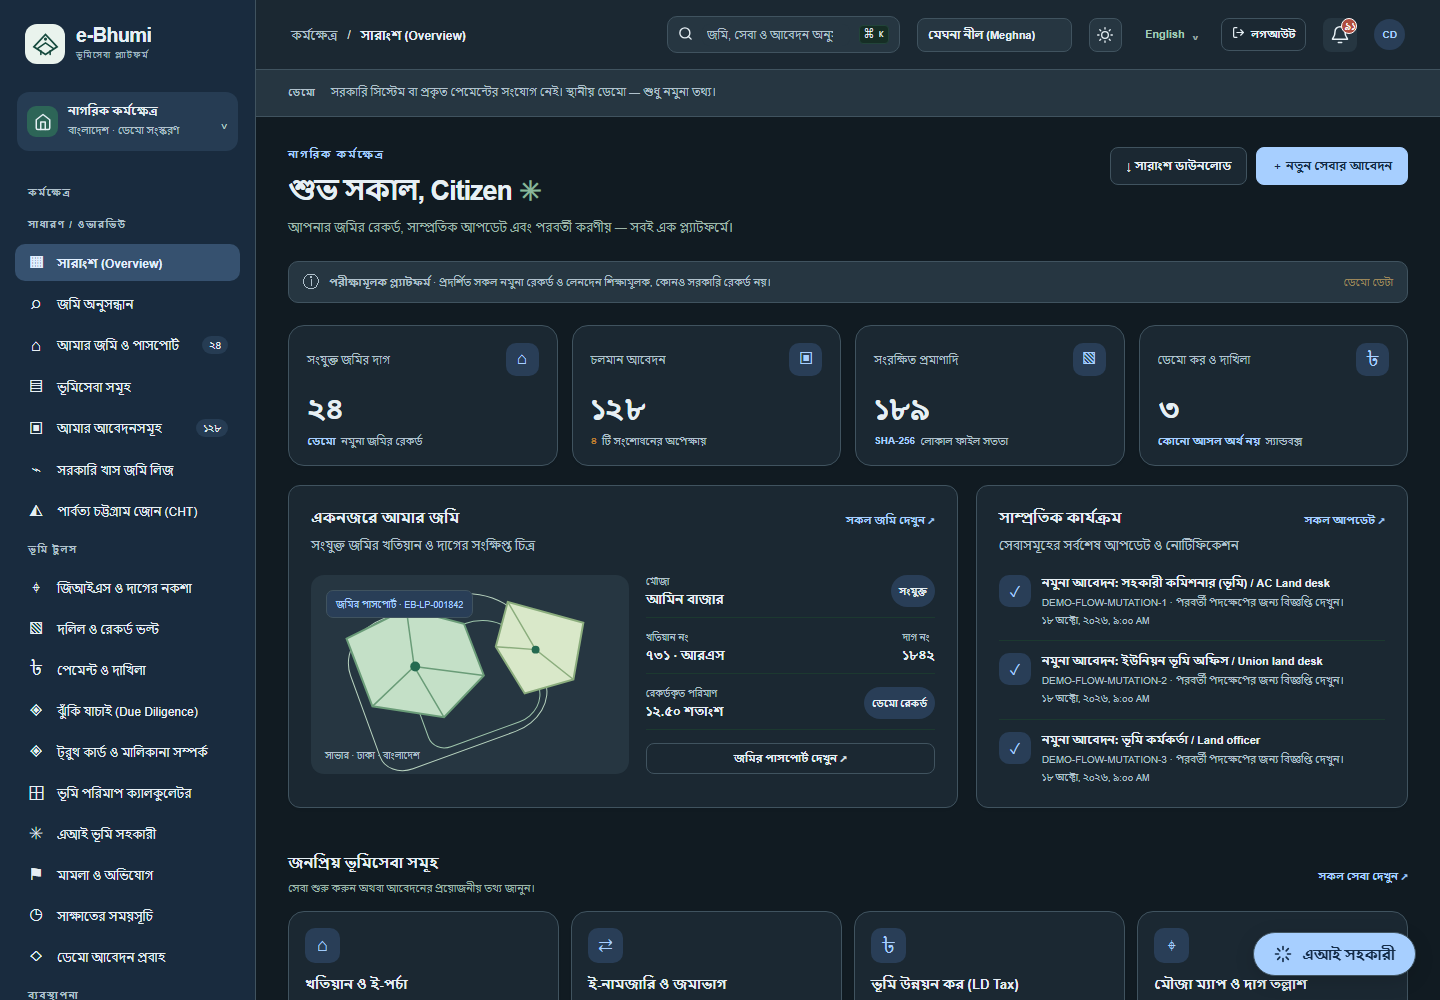
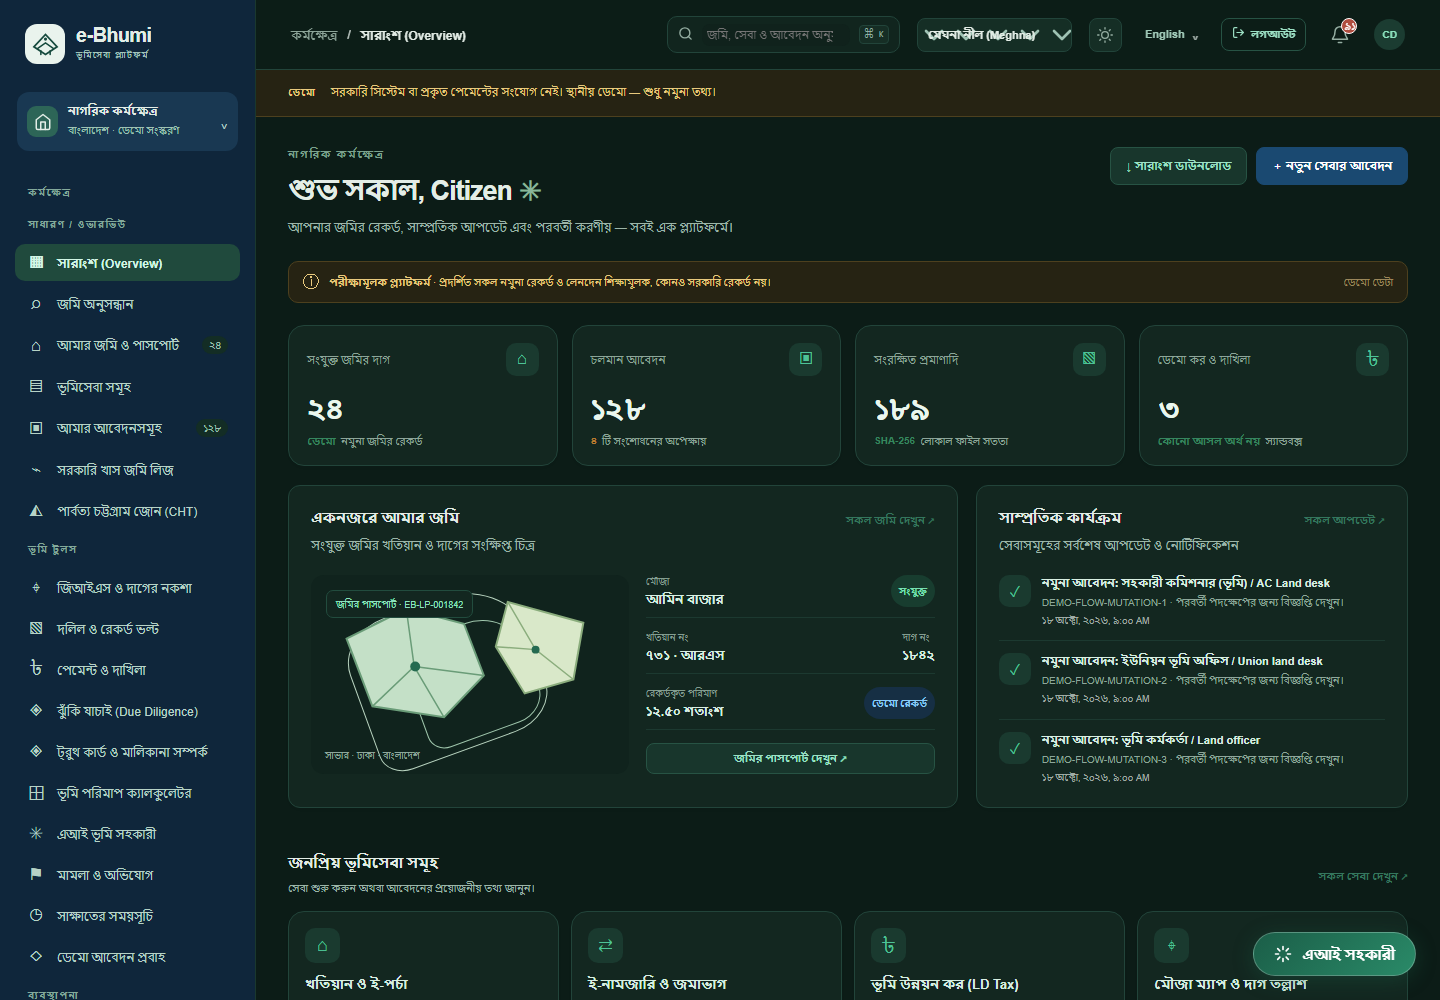
Restore original colour palettes while retaining role demonstrations

diff --git a/ebhumi-platform/themes.css b/ebhumi-platform/themes.css
@@ -1,56 +1,4 @@
-/* Existing layout and fonts are preserved. Alternate day palettes use light sidebars. */
-:root{--canvas:#f4f7f3;--surface:#fff;--surface-soft:#edf3ee;--ink:#173d33;--muted:#526b60;--accent:#1d5b47;--accent-hover:#164b3a;--accent-soft:#e4f1e9;--button-ink:#fff;--border:#d3e0d8;--side:#143f34;--side-ink:#edf7f1;--side-muted:#bdd4c8;--side-soft:#214e41;--side-active:#e8f2ec;--side-active-ink:#164b3f}
-:root[data-color-variant="meghna"]{--canvas:#f4f8fd;--surface:#fff;--surface-soft:#eaf1f9;--ink:#213d58;--muted:#536b82;--accent:#265f96;--accent-hover:#1c4c7c;--accent-soft:#e4effb;--border:#cbdbea;--side:#e8f1fb;--side-ink:#213d58;--side-muted:#4d6781;--side-soft:#dae8f7;--side-active:#c9def4;--side-active-ink:#173f6a}
-:root[data-color-variant="sundarban"]{--canvas:#fcf8f3;--surface:#fffdfa;--surface-soft:#f5ecdf;--ink:#503b2c;--muted:#76614f;--accent:#92532e;--accent-hover:#754023;--accent-soft:#f8e9db;--border:#e4d5c3;--side:#f6ebdc;--side-ink:#503b2c;--side-muted:#715943;--side-soft:#efdeca;--side-active:#e8cdb0;--side-active-ink:#5b351c}
-:root[data-color-variant="surma"]{--canvas:#f5f7fa;--surface:#fff;--surface-soft:#eaf0f5;--ink:#2c4056;--muted:#596e83;--accent:#435f80;--accent-hover:#334b67;--accent-soft:#e4edf7;--border:#cdd8e4;--side:#eaf0f6;--side-ink:#2c4056;--side-muted:#51677e;--side-soft:#dce6f0;--side-active:#cfdeee;--side-active-ink:#294563}
-:root[data-theme="dark"]{color-scheme:dark;--canvas:#111b22;--surface:#1b2832;--surface-soft:#263641;--ink:#e6eff4;--muted:#b0c1cc;--border:#40535f;--accent:#91d7bb;--accent-hover:#b0e7cf;--accent-soft:#243f37;--button-ink:#102c21;--side:#15252c;--side-ink:#e6eff4;--side-muted:#b0c1cc;--side-soft:#253a42;--side-active:#34554b;--side-active-ink:#d6f7e7}
-:root[data-theme="dark"][data-color-variant="meghna"]{--accent:#a7cfff;--accent-hover:#c5e0ff;--accent-soft:#293e57;--button-ink:#142c48;--side:#192b3e;--side-soft:#263c53;--side-active:#36516f;--side-active-ink:#e1efff}
-:root[data-theme="dark"][data-color-variant="sundarban"]{--accent:#edc29f;--accent-hover:#f5d9c0;--accent-soft:#44372e;--button-ink:#3b281b;--side:#2c2926;--side-soft:#403a33;--side-active:#594938;--side-active-ink:#ffead7}
-:root[data-theme="dark"][data-color-variant="surma"]{--accent:#bfd2e9;--accent-hover:#deebfa;--accent-soft:#303f52;--button-ink:#1e3046;--side:#202b39;--side-soft:#303f51;--side-active:#43546c;--side-active-ink:#edf4ff}
-:root{--paper:var(--canvas);--white:var(--surface);--green:var(--accent);--green-2:var(--accent-hover);--mint:var(--accent-soft);--line:var(--border)}
-:root body,:root .app-shell .main,:root .app-shell .main-area{background:var(--canvas);color:var(--ink)}
-:root .app-shell .sidebar{background:var(--side);color:var(--side-ink);border-right:1px solid var(--border)}
-:root .app-shell .sidebar .brand,:root .app-shell .profile-text b,:root .app-shell .sidebar .workspace-switch{color:var(--side-ink)}
-:root .app-shell .sidebar .nav-item{color:var(--side-ink)}
-:root .app-shell .sidebar .nav-item:hover,:root .app-shell .sidebar .workspace-switch,:root .app-shell .sidebar .help-card,:root .app-shell .profile-mini .avatar{background:var(--side-soft);border-color:var(--border)}
-:root .app-shell .sidebar .nav-item.active{background:var(--side-active);color:var(--side-active-ink)}
-:root .app-shell .sidebar small,:root .app-shell .sidebar .side-label,:root .app-shell .sidebar .text-button,:root .app-shell .sidebar .profile-mini .icon-button{color:var(--side-muted)}
-:root .app-shell .nav-count{background:var(--side-soft);color:var(--side-ink)}
-:root .app-shell .topbar,:root .app-shell .panel,:root .app-shell .card,:root .app-shell .service-card,:root .app-shell .catalog-item,dialog{background:var(--surface);color:var(--ink);border-color:var(--border)}
-:root .app-shell h1,:root .app-shell h2,:root .app-shell h3,:root .app-shell strong,:root .app-shell .stat-value,:root .app-shell .panel-title{color:var(--ink)}
-:root .app-shell .muted,:root .app-shell .help,:root .app-shell .breadcrumb,:root .app-shell .metric small,:root .app-shell .panel p,:root .app-shell .card p,:root .app-shell td small{color:var(--muted)}
-:root .app-shell .btn{background:var(--surface);color:var(--ink);border-color:var(--border);transition:transform .15s,box-shadow .15s!important}
-:root .app-shell .btn.primary,:root .app-shell .progress-steps button.active{background:var(--accent);color:var(--button-ink);border-color:var(--accent)}
-:root .app-shell .btn.primary:hover{background:var(--accent-hover);color:var(--button-ink)}
-:root .app-shell input,:root .app-shell select,:root .app-shell textarea,:root .app-shell .global-search,:root .app-shell .global-search input,:root .app-shell .theme-toggle,:root .app-shell .icon-button,:root .app-shell .progress-steps button{background:var(--surface-soft);color:var(--ink);border-color:var(--border)}
-:root .app-shell input::placeholder,:root .app-shell textarea::placeholder{color:var(--muted);opacity:1}
-:root .app-shell th,:root .app-shell .result,:root .app-shell .evidence,:root .app-shell pre,:root .app-shell .notice,:root .app-shell .outcome,:root .app-shell .progress-steps button.done{background:var(--surface-soft);color:var(--ink);border-color:var(--border)}
-:root .app-shell table,:root .app-shell td,:root .app-shell tr{border-color:var(--border)}
-:root .app-shell .sandbox{background:var(--surface-soft);color:var(--muted);border-color:var(--border)}
-:root .app-shell .badge,:root .app-shell .pill{background:var(--accent-soft);color:var(--ink);border-color:var(--border)}
-:root .app-shell .breadcrumb b,:root .app-shell .global-search kbd{color:var(--ink)}
-:root .app-shell .source-link,:root .app-shell .demo-example-links a{color:var(--accent)}
-:root .app-shell .profile-mini,:root .app-shell .sidebar-bottom{border-color:var(--border)}
-:root .app-shell .stat-card,:root .app-shell .feature-card,:root .app-shell .catalog-stat,:root .app-shell .mini-metric{background:var(--surface);color:var(--ink);border-color:var(--border)}
-:root .app-shell .stat-label,:root .app-shell .stat-foot,:root .app-shell .service-card small,:root .app-shell .panel-subtitle,:root .app-shell .detail-label,:root .app-shell .land-art-bottom{color:var(--muted)}
-:root .app-shell .positive,:root .app-shell .text-button,:root .app-shell .eyebrow{color:var(--accent)}
-:root .app-shell .stat-icon,:root .app-shell .service-icon,:root .app-shell .activity-icon,:root .app-shell .land-art-label,:root .app-shell .top-avatar{background:var(--accent-soft);color:var(--accent);border-color:var(--border)}
-:root .app-shell .detail-value,:root .app-shell .activity-copy b,:root .app-shell .service-card b{color:var(--ink)}
-:root .app-shell .land-art,:root .app-shell .demo-banner,:root .app-shell .chat-bubble,:root .app-shell .app-footer{background:var(--surface-soft);color:var(--muted);border-color:var(--border)}
-:root .app-shell .table-wrap,:root .app-shell table,:root .app-shell .data-table{background:var(--surface);color:var(--ink);border-color:var(--border)}
-:root .app-shell td,:root .app-shell .activity-copy p{color:var(--muted)}
-:root .app-shell .table-primary{color:var(--accent)!important}
-:root .app-shell .progress,:root .app-shell .bar{background:var(--surface-soft)}
-:root .app-shell .progress span,:root .app-shell .bar>span{background:var(--accent)}
-:root .app-shell .inline-link{color:var(--accent)}
-:root .app-shell .activity-copy p[style*="color"]{color:var(--muted)!important}
-:root .ai-floating-btn,:root .ai-floating-btn:hover{background:var(--accent);color:var(--button-ink);border-color:var(--border);box-shadow:0 5px 20px #0002}
-:root .ai-floating-card{background:var(--surface);color:var(--ink);border-color:var(--border)}
-:root .ai-floating-card input,:root .ai-floating-card textarea{background:var(--surface-soft);color:var(--ink);border-color:var(--border)}
-[data-theme="dark"] .error{color:#ffb4a6}
-[data-theme="dark"] #hillTerrainPanel .panel[style],[data-theme="dark"] #hillTerrainPanel [style*="background"]{background:var(--surface-soft)!important;border-color:var(--border)!important}
-[data-theme="dark"] #hillTerrainPanel [style*="color"]{color:var(--ink)!important}
-[data-theme="dark"] .leaflet-popup-content-wrapper,[data-theme="dark"] .leaflet-popup-tip{background:var(--surface);color:var(--ink)}
-.demo-summary{margin-top:24px}.demo-example-links{display:flex;flex-wrap:wrap;gap:10px;margin-top:15px}.demo-example-links a{display:inline-block;padding:8px 11px;border:1px solid var(--border);border-radius:7px;overflow-wrap:anywhere}.demo-flow-filter{display:block;margin:20px 0;max-width:560px}.demo-route{padding-left:26px;line-height:1.9}.demo-flow-card{margin-bottom:20px}.demo-route li{padding:5px 0}.demo-flow-card[hidden]{display:none}
+/* Demo workflow layout only. Original colours remain in interface.css and the preserved stylesheets. */
+.demo-summary{margin-top:24px}.demo-example-links{display:flex;flex-wrap:wrap;gap:10px;margin-top:15px}.demo-example-links a{display:inline-block;padding:8px 11px;border:1px solid var(--line);border-radius:7px;overflow-wrap:anywhere}.demo-flow-filter{display:block;margin:20px 0;max-width:560px}.demo-route{padding-left:26px;line-height:1.9}.demo-flow-card{margin-bottom:20px}.demo-route li{padding:5px 0}.demo-flow-card[hidden]{display:none}
 @media(max-width:600px){.demo-example-links{flex-direction:column}.demo-route{padding-left:20px}.demo-flow-card{overflow-wrap:anywhere}}
 @media(prefers-reduced-motion:reduce){:root .app-shell *,dialog{transition:none!important;animation:none!important}}

diff --git a/ebhumi-platform/interface.css b/ebhumi-platform/interface.css
@@ -9,7 +9,126 @@ header .brand small{display:block;margin:5px 0 0;font-size:9px;line-height:1.5;l
 
 .version-label{font-size:10px;opacity:.75;white-space:nowrap}.auth-card>.version-label{display:block;margin-top:18px}
 
-/* Theme colours are centralized in themes.css. */
+/* Color Variant System: Default / Padma Green (পদ্মা সবুজ) */
+:root,
+[data-color-variant="padma"] {
+  --color-brand-primary: #1b5e48;
+  --color-brand-hover: #134736;
+  --color-brand-subtle: #eaf4ef;
+  --color-brand-border: #bcd9cb;
+}
+[data-color-variant="padma"]:not([data-theme="dark"]) {
+  --green: #1b5e48;
+  --green-2: #25785d;
+}
+
+/* Color Variant: Meghna Indigo (মেঘনা নীল) */
+[data-color-variant="meghna"] {
+  --color-brand-primary: #1a4971;
+  --color-brand-hover: #123554;
+  --color-brand-subtle: #e8f1f8;
+  --color-brand-border: #b8d4ea;
+}
+[data-color-variant="meghna"]:not([data-theme="dark"]) {
+  --green: #1a4971;
+  --green-2: #225e91;
+  --mint: #e8f1f8;
+}
+[data-color-variant="meghna"] .btn.primary {
+  background: #1a4971 !important;
+  border-color: #1a4971 !important;
+}
+[data-color-variant="meghna"] .btn.primary:hover {
+  background: #123554 !important;
+}
+[data-color-variant="meghna"] .sidebar,
+[data-color-variant="meghna"] aside {
+  background: #0f263b !important;
+}
+[data-color-variant="meghna"] .sidebar .workspace-switch,
+[data-color-variant="meghna"] .role-panel {
+  background: #193852 !important;
+}
+
+/* Color Variant: Sundarban Clay (সুন্দরবন মৃত্তিকা) */
+[data-color-variant="sundarban"] {
+  --color-brand-primary: #7d4323;
+  --color-brand-hover: #5f3117;
+  --color-brand-subtle: #f9f2ec;
+  --color-brand-border: #e6cdbd;
+}
+[data-color-variant="sundarban"]:not([data-theme="dark"]) {
+  --green: #7d4323;
+  --green-2: #9e562d;
+  --mint: #f9f2ec;
+}
+[data-color-variant="sundarban"] .btn.primary {
+  background: #7d4323 !important;
+  border-color: #7d4323 !important;
+}
+[data-color-variant="sundarban"] .btn.primary:hover {
+  background: #5f3117 !important;
+}
+[data-color-variant="sundarban"] .sidebar,
+[data-color-variant="sundarban"] aside {
+  background: #381f12 !important;
+}
+[data-color-variant="sundarban"] .sidebar .workspace-switch,
+[data-color-variant="sundarban"] .role-panel {
+  background: #4d2b1a !important;
+}
+
+/* Color Variant: Surma Slate (সুরমা স্লেট) */
+[data-color-variant="surma"] {
+  --color-brand-primary: #334155;
+  --color-brand-hover: #1e293b;
+  --color-brand-subtle: #f1f5f9;
+  --color-brand-border: #cbd5e1;
+}
+[data-color-variant="surma"]:not([data-theme="dark"]) {
+  --green: #334155;
+  --green-2: #475569;
+  --mint: #f1f5f9;
+}
+[data-color-variant="surma"] .btn.primary {
+  background: #334155 !important;
+  border-color: #334155 !important;
+}
+[data-color-variant="surma"] .btn.primary:hover {
+  background: #1e293b !important;
+}
+[data-color-variant="surma"] .sidebar,
+[data-color-variant="surma"] aside {
+  background: #182230 !important;
+}
+[data-color-variant="surma"] .sidebar .workspace-switch,
+[data-color-variant="surma"] .role-panel {
+  background: #253346 !important;
+}
+
+/* Dark Mode Overrides for Variants */
+[data-theme="dark"][data-color-variant="meghna"] {
+  --green: #4da1db;
+  --green-2: #6cb3e6;
+  --paper: #0e1e2d;
+  --canvas: #09131d;
+  --line: #1d354a;
+}
+[data-theme="dark"][data-color-variant="sundarban"] {
+  --green: #df8855;
+  --green-2: #ea9e72;
+  --paper: #281810;
+  --canvas: #1a0f0a;
+  --line: #422a1e;
+}
+[data-theme="dark"][data-color-variant="surma"] {
+  --green: #38bdf8;
+  --green-2: #60a5fa;
+  --paper: #1e293b;
+  --canvas: #0f172a;
+  --line: #334155;
+}
+
 /* Color Variant Switcher Dropdown in Topbar */
 .color-variant-select {
   height: 34px;

diff --git a/docs/ROLE_DEMOS_AND_THEMES_v5.9.md b/docs/ROLE_DEMOS_AND_THEMES_v5.9.md
@@ -35,24 +35,21 @@ The [official tax manuals](https://ldtax.gov.bd/manual) and [published fee refer
 
 The one-time `roleDemoEdition` migration adds deterministic IDs without resetting existing applications, edited examples, accounts or uploaded documents. Example content is generated independently; it never copies a user's edited request or uploaded evidence. New citizen registrations remain empty and private. Demo cases respect ownership, current desk, prior handoff and oversight permissions. Old v1-only configurations retain the compact v1 seed rather than receiving v2 workflows.
 
-## Theme fixes
+## Original colours restored
 
-- Green retains its established identity. Alternate blue, clay and slate day sidebars use light surfaces instead of dark fills.
-- Night mode uses one consistent neutral canvas and panel system with a coordinated accent for each variant. Hardcoded green backgrounds on the main canvas, metrics, sidebar, tables, icons and assistant controls were replaced with shared tokens.
-- Text, muted labels, links, inputs, select options and primary buttons have coordinated foreground/background colours. Reduced-motion preferences disable visual transitions.
-- Original font stacks and composition are retained. Map artwork remains illustrative and is not recoloured into authoritative survey data.
+The owner requested the previous colours after reviewing the theme update. The original Padma, Meghna, Sundarban and Surma palettes, sidebar fills, component colours and day/night appearance are restored from the pre-update styles. The demo stylesheet now contains layout rules only. Original font stacks, composition, reduced-motion support and all role/workflow additions remain intact.
 
 | Blue day | Blue night |
 | --- | --- |
 | ![Light blue](screenshots-role-themes/meghna-light.png) | ![Blue night](screenshots-role-themes/meghna-dark.png) |
 | Clay day | Clay night |
-| ![Light clay](screenshots-role-themes/sundarban-light.png) | ![Clay night](screenshots-role-themes/sundarban-dark.png) |
+| ![Original clay](screenshots-role-themes/sundarban-light.png) | ![Clay night](screenshots-role-themes/sundarban-dark.png) |
 
 ## Verification
 
 - 139 automated test cases passed: prior lifecycle/security regressions plus all 33 new service examples resolved using actual APIs, consultations returned to LA, VP handoff, outcome hashes, owner isolation and idempotent restart.
 - All 24 roles passed the 33-service example-library and mobile checks.
-- 192 role/theme/mode combinations passed targeted WCAG AA text contrast checks (4.5:1 minimum), including selected navigation, inputs, primary buttons, metrics and muted labels where present. This is targeted automated verification, not a complete accessibility certification.
+- The browser regression checks all 192 role/theme/mode combinations against the original alternate sidebar colours, selected palette/mode and preserved font stack. The previous contrast results applied to the replaced palette and are not claims about the restored colours.
 - Screenshot renders are in `docs/screenshots-role-themes/`. Browser automation relays actual local responses when loopback is isolated; no fake API results are substituted.
 
 ```powershell

diff --git a/README.md b/README.md
@@ -23,11 +23,11 @@ Primary interface defaults to Bangla, with seamless bilingual toggle to English.
 
 All 24 roles now include a **Demo workflows & examples** library: 104 application examples and four separate vested-property desk examples. Every service has active desk work and a completed outcome example. New mutation requests include the initial AC Land order before union enquiry; existing saved requests keep their history. [Role guide, workflow evidence and palette screenshots](docs/ROLE_DEMOS_AND_THEMES_v5.9.md).
 
-| Light blue day | Coordinated blue night |
+| Original blue day | Original blue night |
 | --- | --- |
 | ![Light theme](docs/screenshots-role-themes/meghna-light.png) | ![Night theme](docs/screenshots-role-themes/meghna-dark.png) |
 
-Four palettes support day/night mode with light alternate sidebars, consistent panels, original fonts and verified text contrast. Validation: 139 automated cases plus all 24 role platforms and 192 palette/mode combinations.
+The original four colour palettes and their day/night appearance have been restored at the owner’s request. Demo workflows, role examples, fonts and layout remain intact. The workflow release passed 139 automated cases; palette screenshots below show the restored appearance.
 
 ## Statutory Law Library, Research & Role Desks — v5.7.0
 
